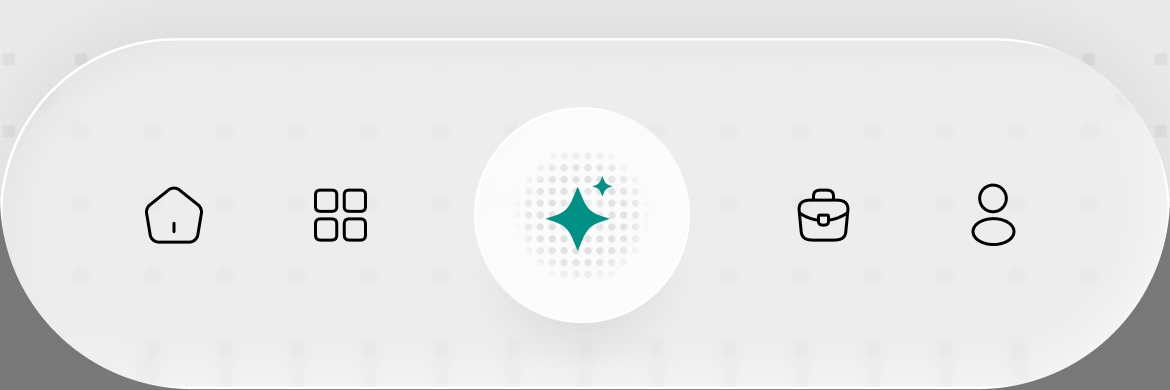
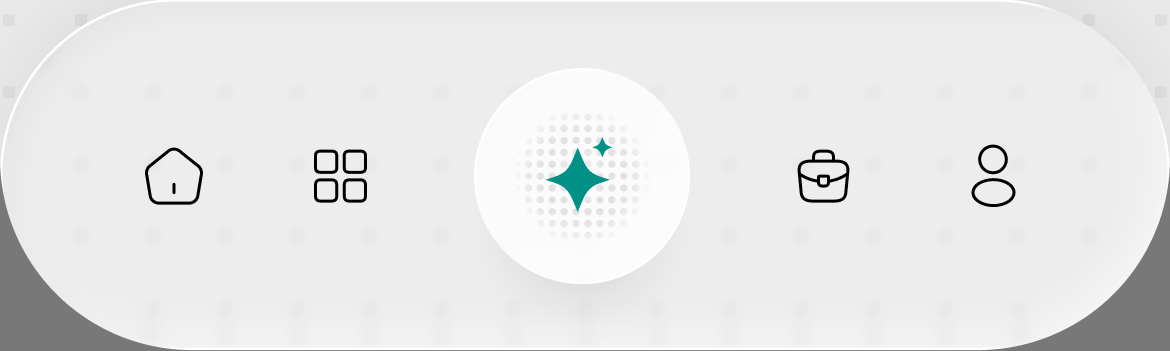
Crop the opaque bleed off the nav bar PNG
Figma exported this node against its backdrop, so the file was fully opaque
#e9e9e9 (alpha 255 everywhere, verified by sampling) rather than a cut-out
of the bar. Its 13px of glow bleed above the bar was therefore painting a
solid band across the page with a hard top edge.

The PNG is cropped to the bar itself (1170x351 = 390x117 at 3x) and the
element sized to match, so nothing sits above it. The image URL is
versioned too — the filename alone would keep serving from cache.

Cache-busts css/js to v16.

diff --git a/index.html b/index.html
@@ -5,7 +5,7 @@
   <meta name="viewport" content="width=device-width, initial-scale=1, viewport-fit=cover">
   <meta name="robots" content="noindex, nofollow">
   <title>Al Hosn Trip · DCT Companion Prototype</title>
-  <link rel="stylesheet" href="css/styles.css?v=15">
+  <link rel="stylesheet" href="css/styles.css?v=16">
 </head>
 <body>
   <!-- Liquid Glass lens filters: organic displacement of the backdrop,
@@ -513,8 +513,8 @@
 
           <!-- the tab bar is one flattened export (33:832), so its glass and
                the sparkle's glow read exactly as designed -->
-          <img class="home-nav" src="assets/home-navbar.png" alt="App sections"
-               width="390" height="130" data-in style="--i:1">
+          <img class="home-nav" src="assets/home-navbar.png?v=2" alt="App sections"
+               width="390" height="117" data-in style="--i:1">
         </section>
 
         <!-- ═══════ Opening-a-stop flow · day plan (34:1563 → 34:1727) ═══════
@@ -624,8 +624,8 @@
           </button>
           <img class="plan-controls" src="assets/plan-header-btns.svg" alt="" width="75" height="30" data-in style="--i:0">
 
-          <img class="home-nav" src="assets/home-navbar.png" alt="App sections"
-               width="390" height="130" data-in style="--i:1">
+          <img class="home-nav" src="assets/home-navbar.png?v=2" alt="App sections"
+               width="390" height="117" data-in style="--i:1">
         </section>
 
         <!-- ═══════ Arriving-at-lunch flow · next stop → order (34:2403 → 34:2426) ═══════ -->
@@ -687,8 +687,8 @@
             </article>
           </div>
 
-          <img class="home-nav arr-nav" src="assets/home-navbar.png" alt="App sections"
-               width="390" height="130">
+          <img class="home-nav arr-nav" src="assets/home-navbar.png?v=2" alt="App sections"
+               width="390" height="117">
         </section>
 
         <!-- ── the reworked card, shared across steps 6→8 ──
@@ -717,6 +717,6 @@
     </footer>
   </div>
 
-  <script src="js/app.js?v=15"></script>
+  <script src="js/app.js?v=16"></script>
 </body>
 </html>

diff --git a/css/styles.css b/css/styles.css
@@ -1709,12 +1709,16 @@ button.lg:active::after {
 .home-logo { width: 102.897px; height: 26.4px; }
 .home-controls { width: 75px; height: 30px; }
 
+/* Figma exported this node against its backdrop, so the PNG is fully opaque
+   #e9e9e9 rather than a cut-out. Its 13px of glow bleed above the bar was
+   therefore painting a hard band across the page; the file is cropped to the
+   bar itself, so nothing sits above it. */
 .home-nav {
   position: absolute;
   left: 0;
   bottom: 0;
   width: 390px;
-  height: 130px;
+  height: 117px;
   display: block;
   pointer-events: none;
 }
